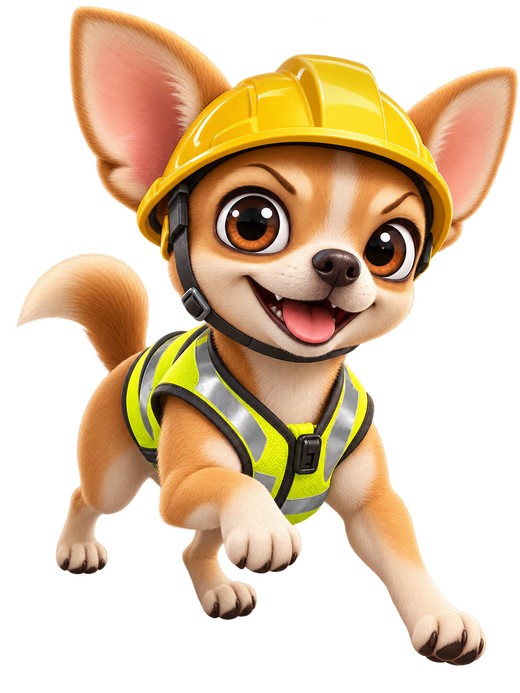
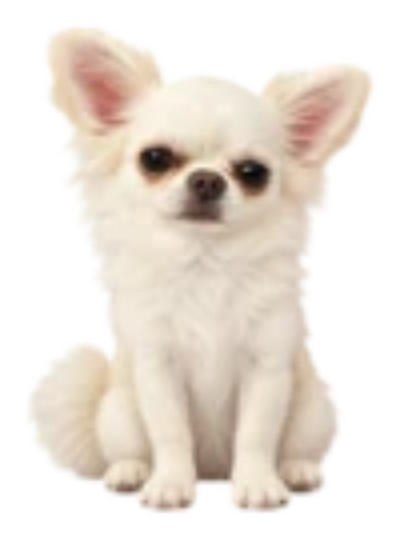
SAFETY RUN: postava podle předlohy – krémově bílá dlouhosrstá čivava (3D model i obrázek v menu)
Claude-Session: https://claude.ai/code/session_01XRiMcFP2QXWoQixtAYGJLS

diff --git a/game.js b/game.js
@@ -215,9 +215,9 @@
 
   // barvy
   const C = {
-    fur: M(0xd8914f, { r: 0.85 }),
-    cream: M(0xf7e1c4, { r: 0.85 }),
-    pink: M(0xf4a3a0, { r: 0.8 }),
+    fur: M(0xf1e7d4, { r: 0.92 }),
+    cream: M(0xfbf6ec, { r: 0.95 }),
+    pink: M(0xe9a1a7, { r: 0.8 }),
     dark: M(0x24160f, { r: 0.4 }),
     white: M(0xffffff, { r: 0.3 }),
     vest: M(0xcdf51a, { r: 0.6, e: 0x2f3d00, side: THREE.DoubleSide }),
@@ -280,80 +280,92 @@
 
   // ---------------------------------------------------------------- postava: čivava
   function buildDog() {
+    // dlouhosrstá krémově bílá čivava (podle předlohy): chundelatá srst, velké uši s růžovým vnitřkem,
+    // velké tmavé oči, chlupatý ocas stočený nad hřbetem
     const root = new THREE.Group();
     const body = new THREE.Group();
     root.add(body);
+    const tuft = (mat, s, p) => body.add(mesh(gSph(), mat, s, p));
 
-    body.add(mesh(gSph(), C.fur, [0.3, 0.28, 0.42], [0, 0.56, 0]));
-    body.add(mesh(gSph(), C.cream, [0.2, 0.2, 0.18], [0, 0.5, -0.3]));
+    tuft(C.fur, [0.3, 0.29, 0.42], [0, 0.56, 0]);
+    // chundelaté boky a hřbet
+    [[-0.22, 0.6, 0.12], [0.22, 0.6, 0.12], [-0.2, 0.58, -0.14], [0.2, 0.58, -0.14], [0, 0.76, 0.2], [0, 0.42, 0.1]].forEach(p => tuft(C.fur, [0.15, 0.15, 0.17], p));
+    // náprsenka (hříva na hrudi)
+    tuft(C.cream, [0.25, 0.25, 0.2], [0, 0.55, -0.3]);
+    [-1, 1].forEach(s => tuft(C.cream, [0.13, 0.15, 0.12], [s * 0.13, 0.44, -0.33]));
+    tuft(C.cream, [0.14, 0.16, 0.12], [0, 0.38, -0.32]);
 
     // reflexní vesta
     const vg = G('vestCyl', () => new THREE.CylinderGeometry(1, 1, 1, 24, 1, true));
-    const vest = mesh(vg, C.vest, [0.318, 0.5, 0.298], [0, 0.57, -0.02]);
+    const vest = mesh(vg, C.vest, [0.33, 0.5, 0.31], [0, 0.58, -0.02]);
     vest.rotation.x = Math.PI / 2;
     body.add(vest);
     [-0.13, 0.1].forEach(z => {
-      const s = mesh(vg, C.refl, [0.324, 0.06, 0.304], [0, 0.57, z]);
+      const s = mesh(vg, C.refl, [0.336, 0.06, 0.316], [0, 0.58, z]);
       s.rotation.x = Math.PI / 2;
       body.add(s);
     });
-    // X pásy na zádech
     [-0.5, 0.5].forEach(a => {
-      const s = box(0.07, 0.02, 0.44, C.refl, 0, 0.865, -0.02);
+      const s = box(0.07, 0.02, 0.44, C.refl, 0, 0.9, -0.02);
       s.rotation.y = a;
       body.add(s);
     });
 
-    // hlava
+    // hlava (kulatá „jablíčková“)
     const head = new THREE.Group();
-    head.position.set(0, 0.96, -0.36);
+    head.position.set(0, 0.98, -0.36);
     body.add(head);
-    head.add(mesh(gSph(), C.fur, [0.27, 0.25, 0.25], [0, 0, 0]));
-    head.add(mesh(gSph(), C.cream, [0.18, 0.15, 0.14], [0, -0.06, -0.14]));
-    head.add(mesh(gSph(), C.cream, [0.11, 0.09, 0.13], [0, -0.07, -0.25]));
-    head.add(mesh(gSph(), C.dark, [0.05, 0.04, 0.04], [0, -0.03, -0.37]));
+    head.add(mesh(gSph(), C.fur, [0.28, 0.26, 0.26], [0, 0, 0]));
+    [-1, 1].forEach(s => head.add(mesh(gSph(), C.cream, [0.13, 0.13, 0.12], [s * 0.19, -0.1, -0.04])));
+    head.add(mesh(gSph(), C.cream, [0.13, 0.1, 0.12], [0, -0.08, -0.2]));
+    head.add(mesh(gSph(), C.dark, [0.045, 0.035, 0.035], [0, -0.04, -0.32]));
     [-1, 1].forEach(s => {
-      head.add(mesh(gSph(), C.white, [0.075, 0.075, 0.06], [s * 0.11, 0.03, -0.19]));
-      head.add(mesh(gSph(), C.dark, [0.045, 0.045, 0.03], [s * 0.115, 0.03, -0.24]));
+      head.add(mesh(gSph(), C.dark, [0.07, 0.07, 0.05], [s * 0.115, 0.02, -0.2]));
+      head.add(mesh(gSph(), C.white, [0.018, 0.018, 0.012], [s * 0.115 + 0.02, 0.045, -0.245], false));
       const ear = new THREE.Group();
-      ear.position.set(s * 0.22, 0.14, 0.02);
-      ear.rotation.z = -s * 0.75;
-      ear.add(mesh(gCone(), C.fur, [0.15, 0.46, 0.06], [0, 0.23, 0]));
-      ear.add(mesh(gCone(), C.pink, [0.1, 0.35, 0.03], [0, 0.2, -0.03]));
+      ear.position.set(s * 0.21, 0.16, 0.02);
+      ear.rotation.z = -s * 0.62;
+      ear.add(mesh(gCone(), C.fur, [0.18, 0.52, 0.07], [0, 0.26, 0]));
+      ear.add(mesh(gCone(), C.pink, [0.12, 0.38, 0.03], [0, 0.22, -0.035]));
+      // dlouhé chlupy na okrajích uší
+      [0.08, 0.2, 0.32].forEach((y, i) => ear.add(mesh(gSph(), C.cream, [0.06 - i * 0.012, 0.08, 0.05], [s * (0.15 - y * 0.3), y, 0.01])));
       head.add(ear);
     });
-    const hat = mesh(helmetGeo, C.hat, [1.1, 1.05, 1.1], [0, 0.07, 0.01]);
+    const hat = mesh(helmetGeo, C.hat, [1.1, 1.05, 1.1], [0, 0.08, 0.01]);
     hat.rotation.x = -0.08;
     head.add(hat);
-    head.add(box(0.05, 0.05, 0.34, C.hat, 0, 0.39, 0.01));
-    // podbradní pásek
-    const strap = mesh(G('torus', () => new THREE.TorusGeometry(1, 0.08, 6, 20)), C.rubber, [0.25, 0.25, 0.25], [0, -0.04, -0.02], false);
+    head.add(box(0.05, 0.05, 0.34, C.hat, 0, 0.4, 0.01));
+    const strap = mesh(G('torus', () => new THREE.TorusGeometry(1, 0.08, 6, 20)), C.rubber, [0.26, 0.26, 0.26], [0, -0.04, -0.02], false);
     strap.rotation.y = Math.PI / 2;
     head.add(strap);
 
-    // nohy
+    // nohy (tenké, se „kalhotkami“ na zadních)
     const legs = [];
-    [[-0.15, -0.22], [0.15, -0.22], [-0.15, 0.24], [0.15, 0.24]].forEach(([x, z]) => {
+    [[-0.15, -0.22], [0.15, -0.22], [-0.15, 0.24], [0.15, 0.24]].forEach(([x, z], i) => {
       const pivot = new THREE.Group();
       pivot.position.set(x, 0.45, z);
-      pivot.add(mesh(gCyl(10), C.fur, [0.075, 0.4, 0.075], [0, -0.2, 0]));
-      pivot.add(mesh(gSph(), C.cream, [0.085, 0.06, 0.11], [0, -0.41, -0.03]));
+      pivot.add(mesh(gCyl(10), C.fur, [0.07, 0.4, 0.07], [0, -0.2, 0]));
+      if (i > 1) pivot.add(mesh(gSph(), C.cream, [0.11, 0.17, 0.12], [0, -0.06, 0.04]));
+      pivot.add(mesh(gSph(), C.cream, [0.08, 0.055, 0.1], [0, -0.41, -0.03]));
       body.add(pivot);
       legs.push(pivot);
     });
 
-    // ocas
+    // ocas: chlupatý chochol stočený nad hřbet
     const tail = new THREE.Group();
-    tail.position.set(0, 0.68, 0.38);
-    tail.rotation.x = 0.9;
-    tail.add(mesh(gCone(), C.fur, [0.07, 0.36, 0.07], [0, 0.16, 0]));
-    tail.add(mesh(gSph(), C.cream, [0.055, 0.07, 0.055], [0, 0.33, 0]));
+    tail.position.set(0, 0.7, 0.36);
+    const R = 0.3;
+    for (let i = 0; i <= 7; i++) {
+      const t = (i / 7) * 2.3;
+      const r = 0.08 + Math.sin((i / 7) * Math.PI) * 0.07;
+      tail.add(mesh(gSph(), i % 2 ? C.cream : C.fur, [r, r, r * 1.1], [0, R * Math.sin(t), -R * (1 - Math.cos(t)) + 0.06]));
+    }
     body.add(tail);
 
     // štít
     const bubble = new THREE.Mesh(gSph(), M(0x9cf6ff, { t: true, op: 0.22, e: 0x2fd0ff, ei: 0.8, dw: false }));
-    bubble.scale.set(0.85, 0.9, 1.0);
-    bubble.position.y = 0.7;
+    bubble.scale.set(0.9, 0.95, 1.05);
+    bubble.position.y = 0.72;
     bubble.visible = false;
     root.add(bubble);
 

diff --git a/index.html b/index.html
@@ -38,7 +38,7 @@
 <!-- MENU -->
 <div id="menu" class="overlay">
   <div class="panel menu-panel">
-    <img class="hero" src="assets/chivava.png" alt="Čivava v reflexní vestě a přilbě">
+    <img class="hero" src="assets/chivava.png" alt="Krémově bílá dlouhosrstá čivava">
     <h1 class="title"><span>SAFETY</span><span>RUN</span></h1>
     <p class="tag">Směna začíná. Uhýbej, skákej, sbírej přilby.</p>
     <button id="playBtn" class="btn-main">PLAY</button>
